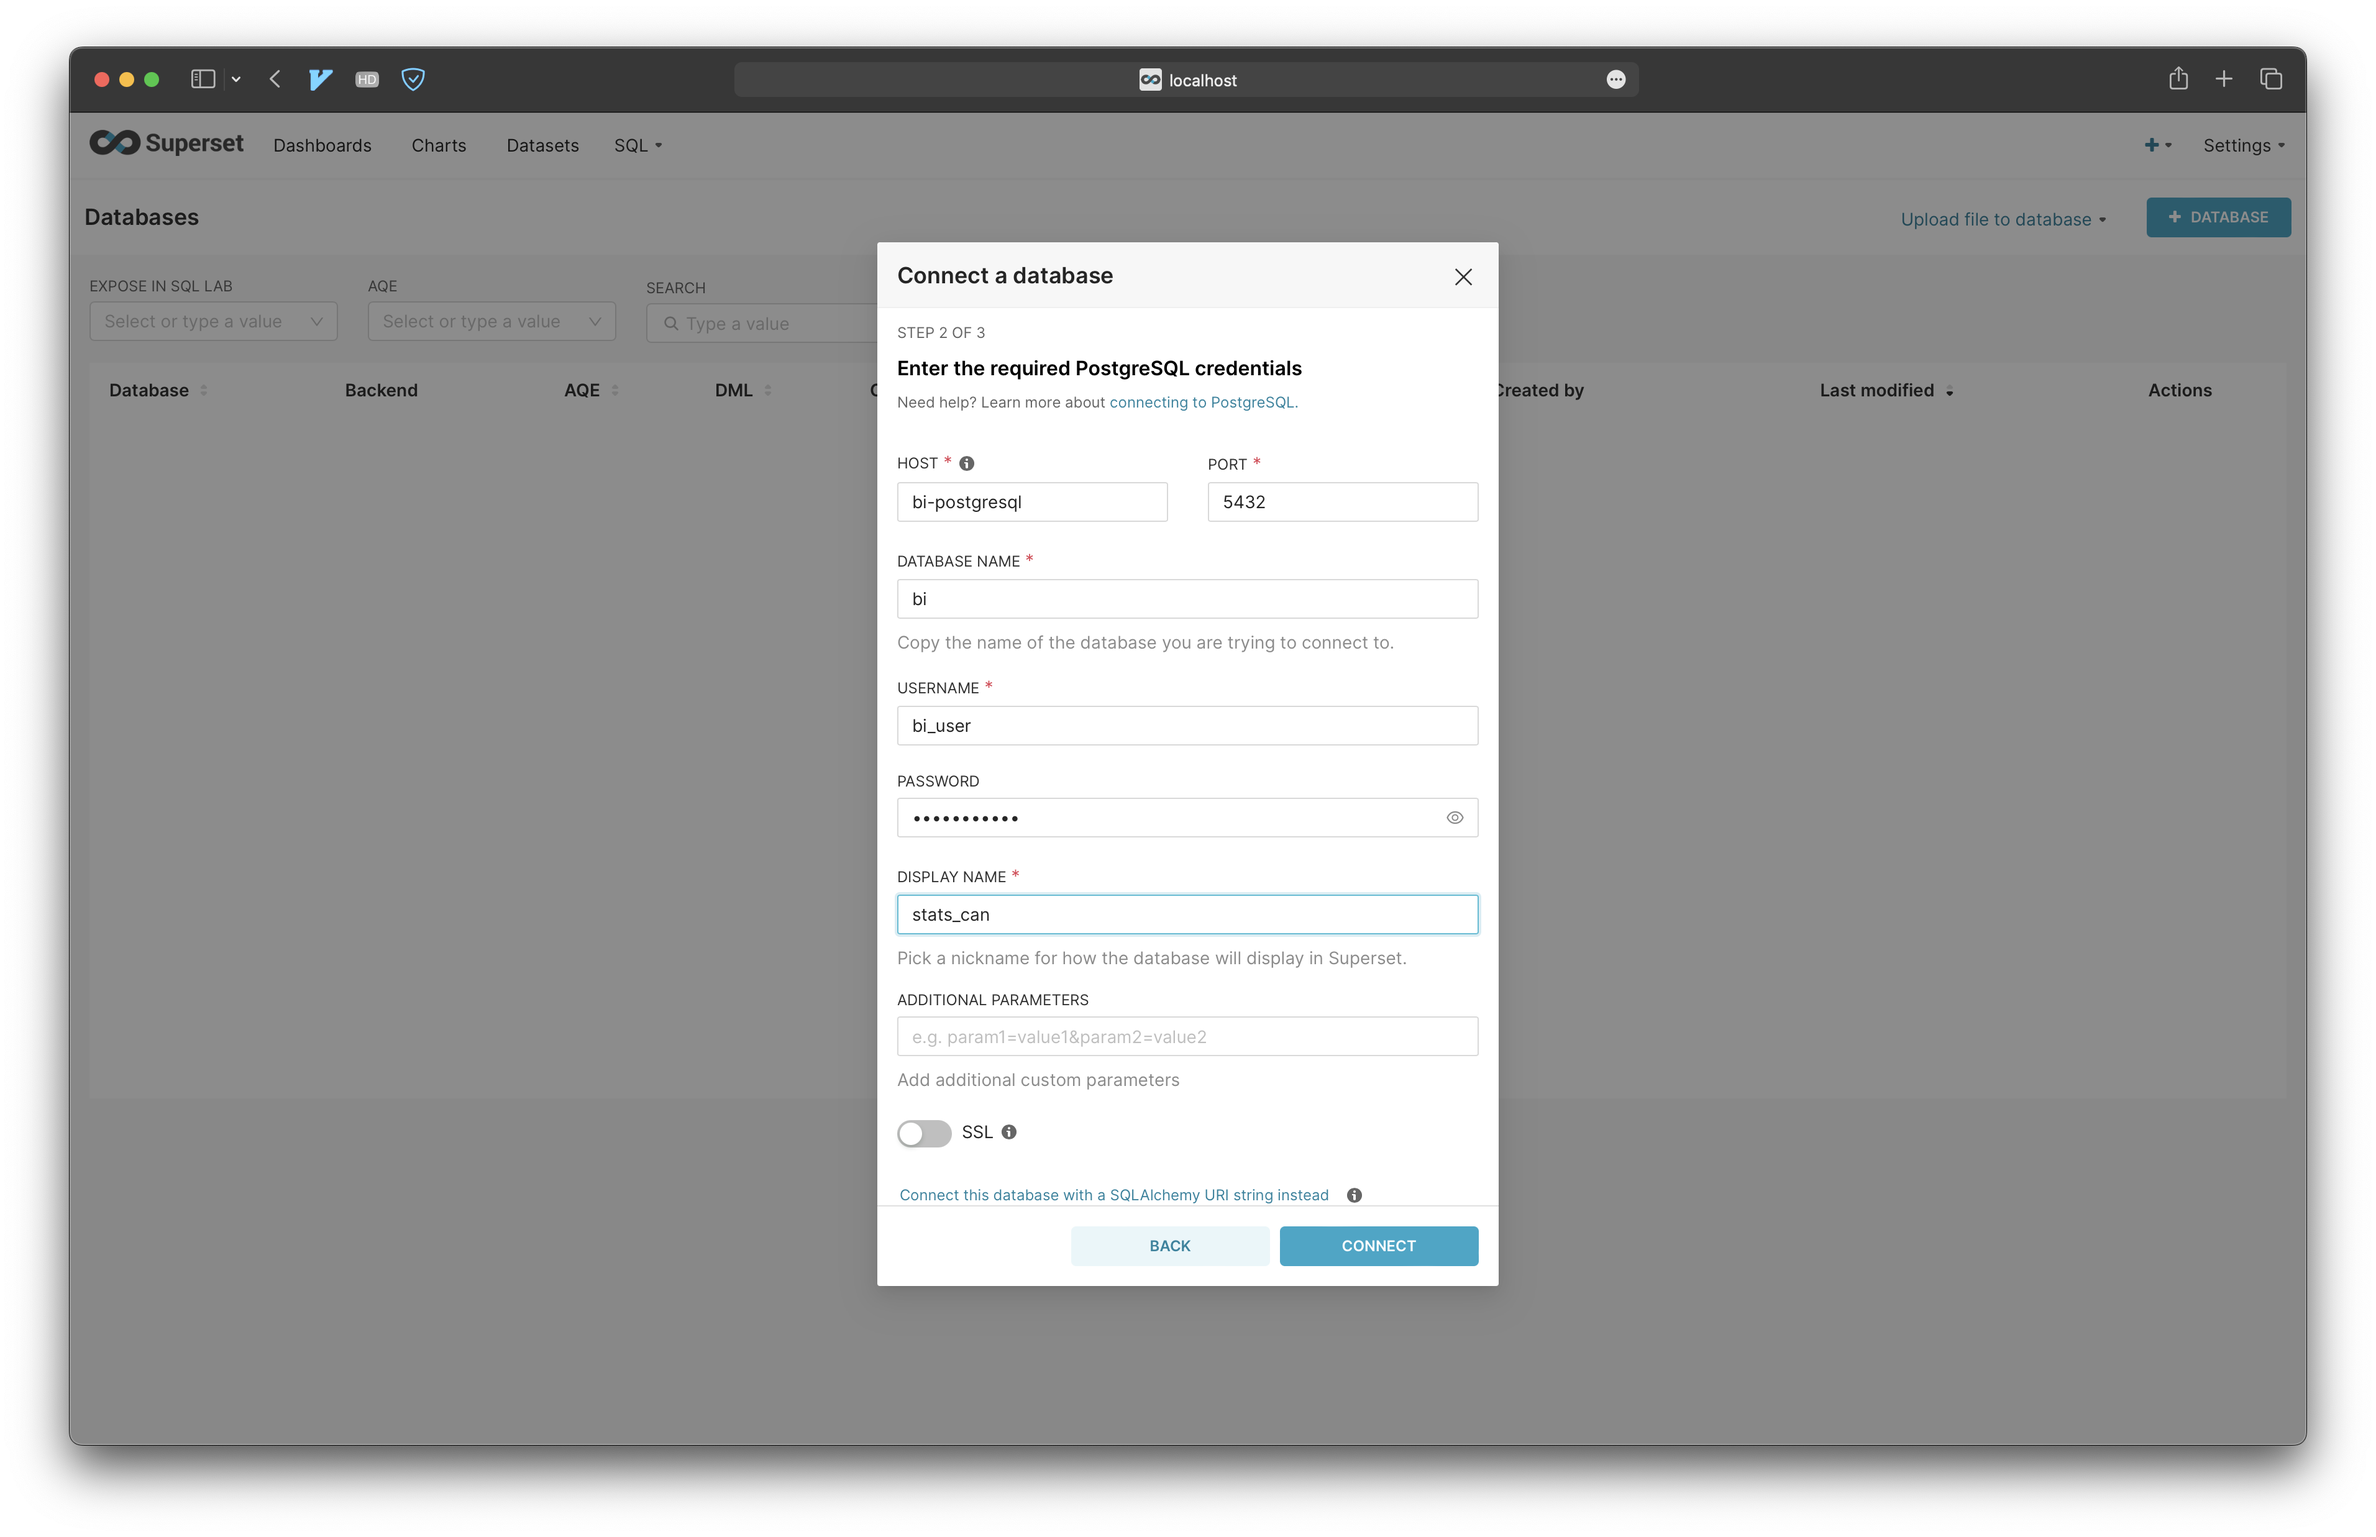
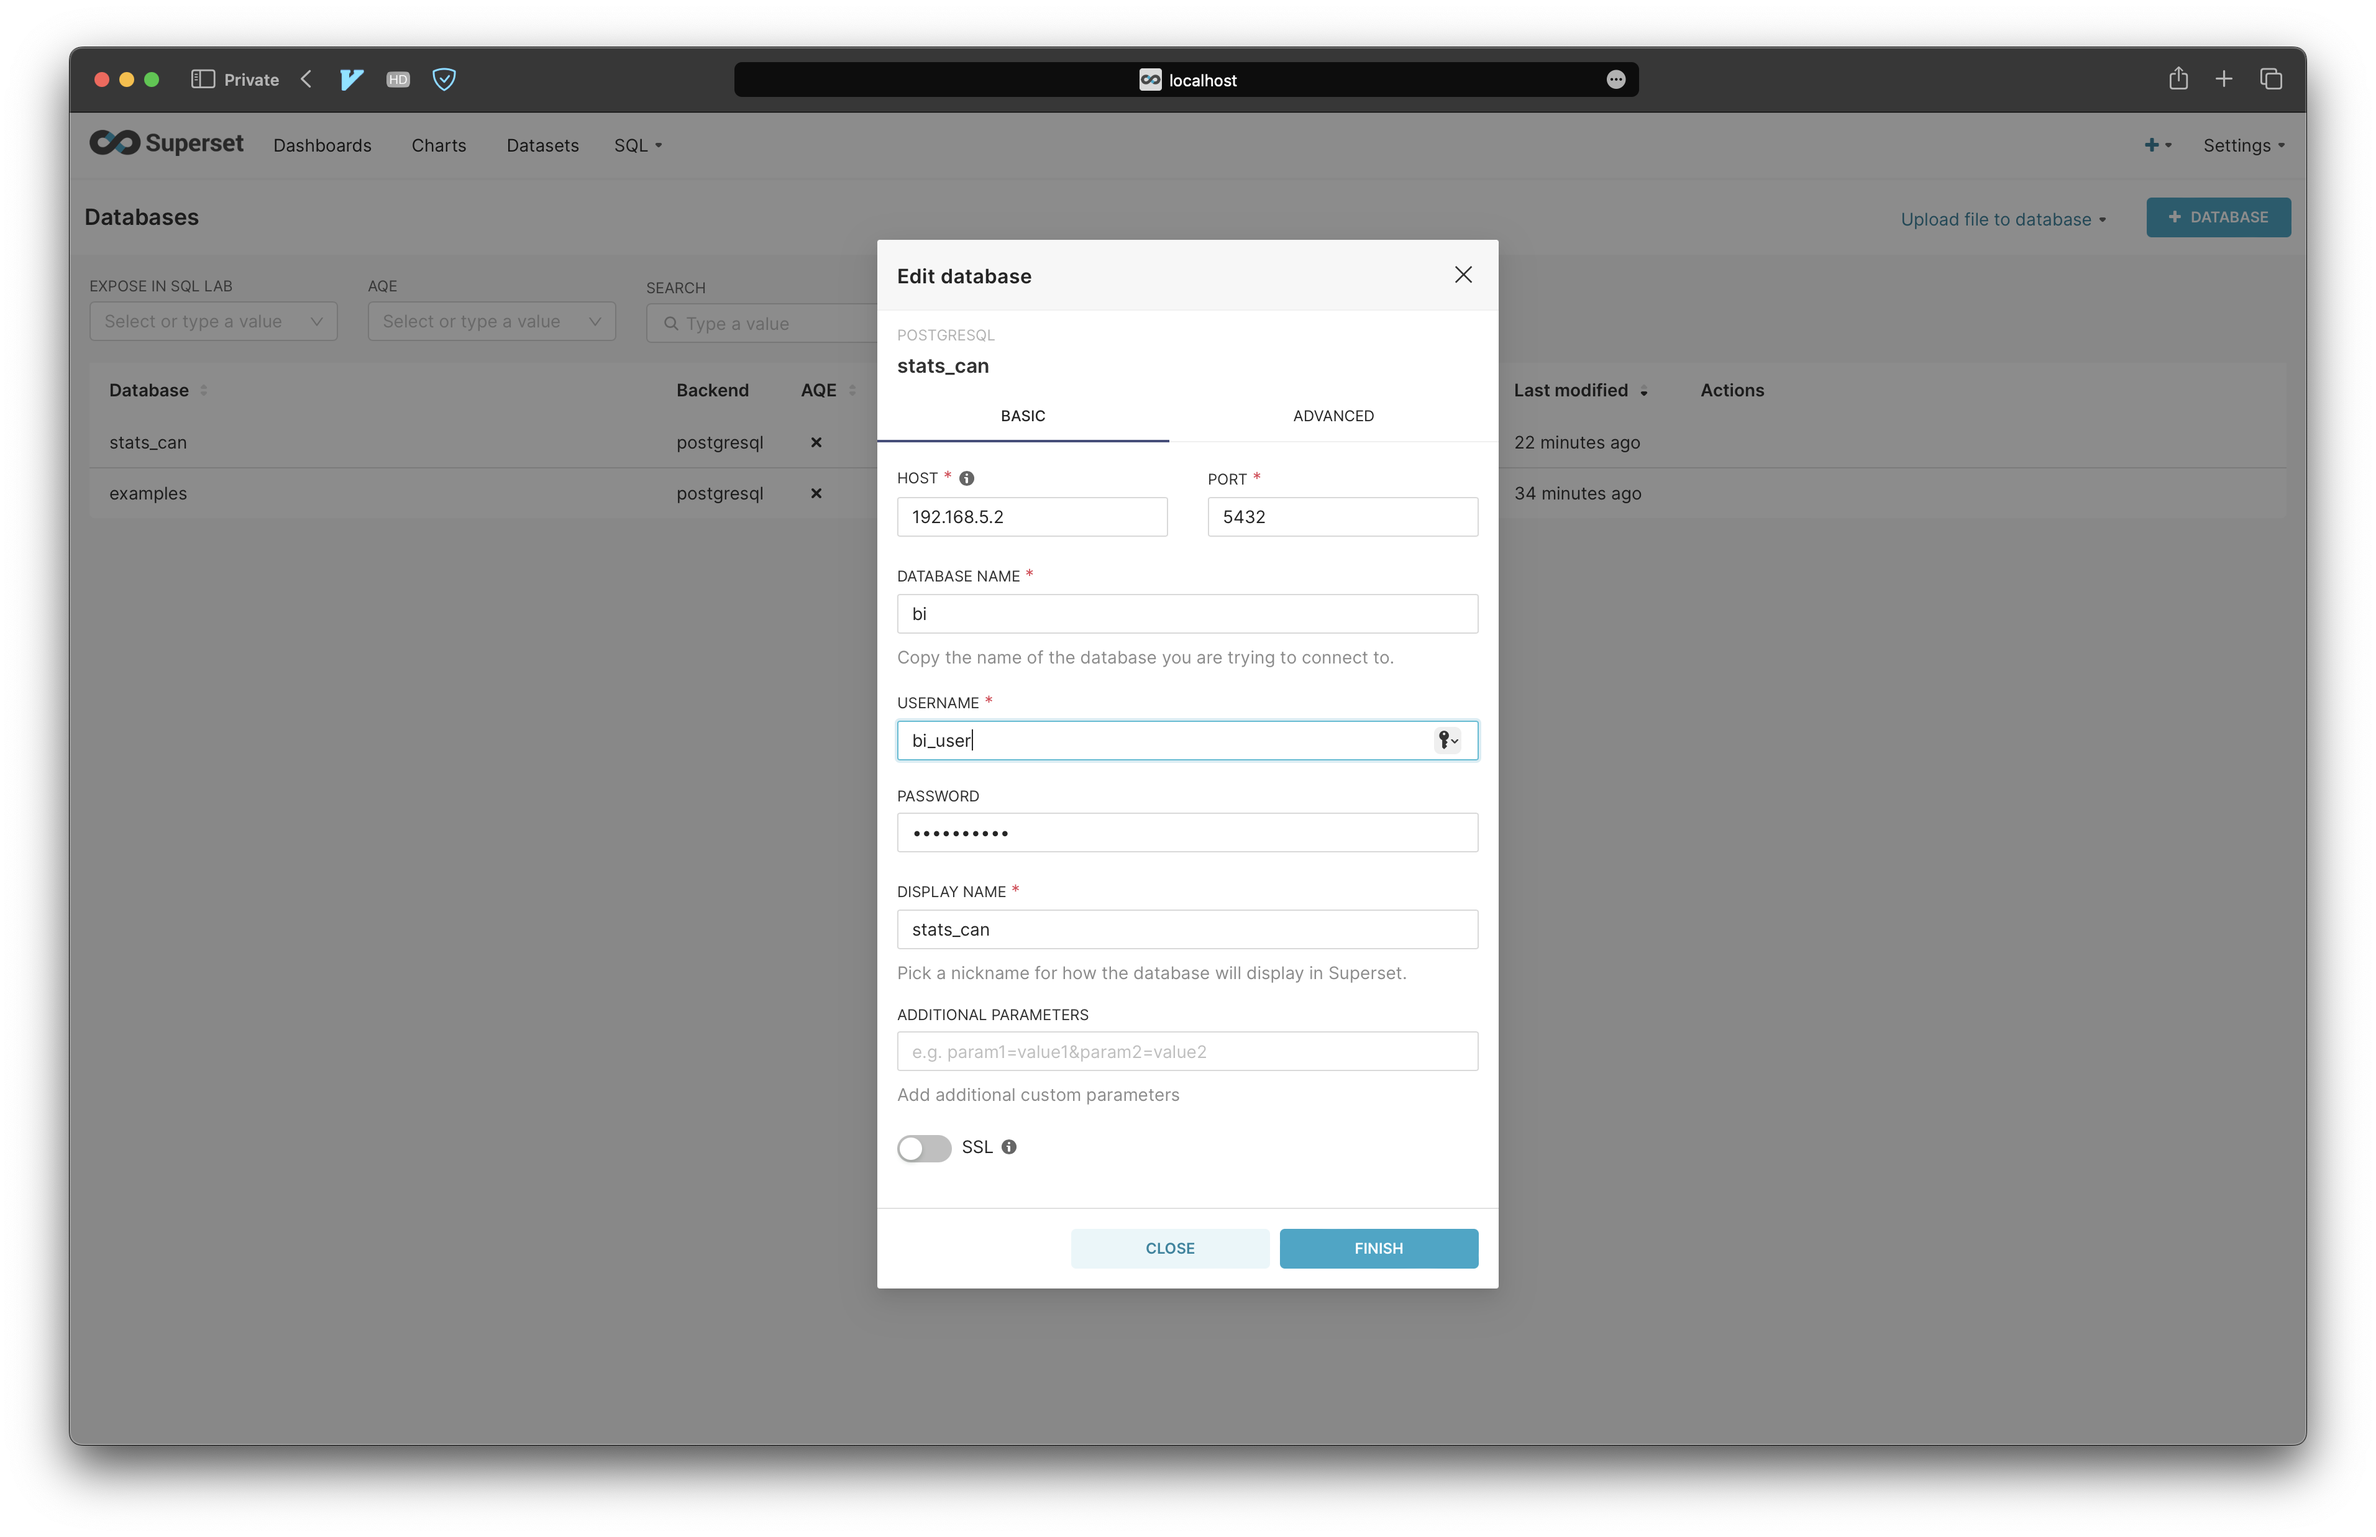
feat: use docker-compose for superset

diff --git a/README.md b/README.md
@@ -3,6 +3,7 @@
 explore different data viz solution for Business intelligence (BI)
 
 - [Redash](https://redash.io): acquired by Databricks in 2020
+- [Apache Superset](https://superset.apache.org)
 
 In this repo, we are using the [Kubernetes](https://kubernetes.io/) to deploy all components.
 
@@ -19,15 +20,16 @@ In this repo, we are using the [Kubernetes](https://kubernetes.io/) to deploy al
     - [dashboard based on queries](#dashboard-based-on-queries)
   - [superset](#superset-1)
     - [create the connection from web ui](#create-the-connection-from-web-ui)
+    - [dashboard with filters](#dashboard-with-filters)
 - [cleanup](#cleanup)
 - [references](#references)
 
 ## prerequisites
 
-- [Rancher Desktop](https://github.com/rancher-sandbox/rancher-desktop): `1.4.1`
-- Kubernetes: `v1.24.3`
-- kubectl `v1.23.3`
-- Helm: `v3.9.0`
+- [Rancher Desktop](https://github.com/rancher-sandbox/rancher-desktop): `1.7.0`
+- Kubernetes: `v1.25.4`
+- kubectl `v1.26.0`
+- Helm: `v3.10.2`
 
 ## setup
 
@@ -105,15 +107,18 @@ helm upgrade --install bi-redash redash/redash -f redash/values.yaml -n bi
 
 ### superset
 
-follow the [official helm chart](https://superset.apache.org/docs/installation/running-on-kubernetes/) to deploy Redash
+use the docker-compose to deploy superset due to the technical issue with the helm chart of Superset
 
 ```sh
-helm repo add superset https://apache.github.io/superset
+git clone --depth=1 https://github.com/apache/superset.git
+cd superset
+nerdctl compose -f docker-compose-non-dev.yml up -d
 ```
 
-```sh
-helm upgrade --install bi-superset superset/superset -f superset/values.yaml -n bi
-```
+FIXME: follow the [official helm chart](https://superset.apache.org/docs/installation/running-on-kubernetes/) to deploy Superset
+
+- lost connection after port-forwarding
+  - `E1225 18:33:45.746629   82460 portforward.go:406] an error occurred forwarding 8088 -> 8088: error forwarding port 8088 to pod 78d8fb8629c8ab4dc2baa54d14207d413094f45c96de2378811cf54862124671, uid : failed to execute portforward in network namespace "/var/run/netns/cni-3e90f492-496d-9f08-9e0f-6b0a5d1e1008": readfrom tcp4 127.0.0.1:59662->127.0.0.1:8088: write tcp4 127.0.0.1:59662->127.0.0.1:8088: write: broken pipe`
 
 ## explore
 
@@ -151,12 +156,7 @@ AND REF_DATE BETWEEN '{{ REF_DATE.start }}' AND '{{ REF_DATE.end}}'
 
 ### superset
 
-```sh
-kubectl port-forward svc/bi-superset -n bi 8088:8088
-```
-
-- FIXME: lost connection
-  - `E1225 18:33:45.746629   82460 portforward.go:406] an error occurred forwarding 8088 -> 8088: error forwarding port 8088 to pod 78d8fb8629c8ab4dc2baa54d14207d413094f45c96de2378811cf54862124671, uid : failed to execute portforward in network namespace "/var/run/netns/cni-3e90f492-496d-9f08-9e0f-6b0a5d1e1008": readfrom tcp4 127.0.0.1:59662->127.0.0.1:8088: write tcp4 127.0.0.1:59662->127.0.0.1:8088: write: broken pipe`
+visit http://localhost:8088 for the superset web ui
 
 login with the default confidential
 
@@ -167,7 +167,19 @@ password: admin
 
 #### create the connection from web ui
 
+in order to connect with the psql instance on kubernetes
+
+```sh
+kubectl port-forward svc/bi-postgresql -n bi 5432:5432
+```
+
+`192.168.5.2` is the equivalent `host.docker.internal` based on [this discussion](https://github.com/containerd/nerdctl/issues/747)
+
 ![superset connection](assets/superset_connection.png)
+
+#### dashboard with filters
+
+![superset dashboard](./assets/superset_dashboard.png)
 
 ## cleanup
 
@@ -175,7 +187,6 @@ tl;dr: `./scripts/down.sh`
 
 ```sh
 helm uninstall bi-redash -n bi
-helm uninstall bi-superset -n bi
 helm uninstall bi-postgresql -n bi
 kubectl delete pvc --all -n bi
 kubectl delete namespace bi
